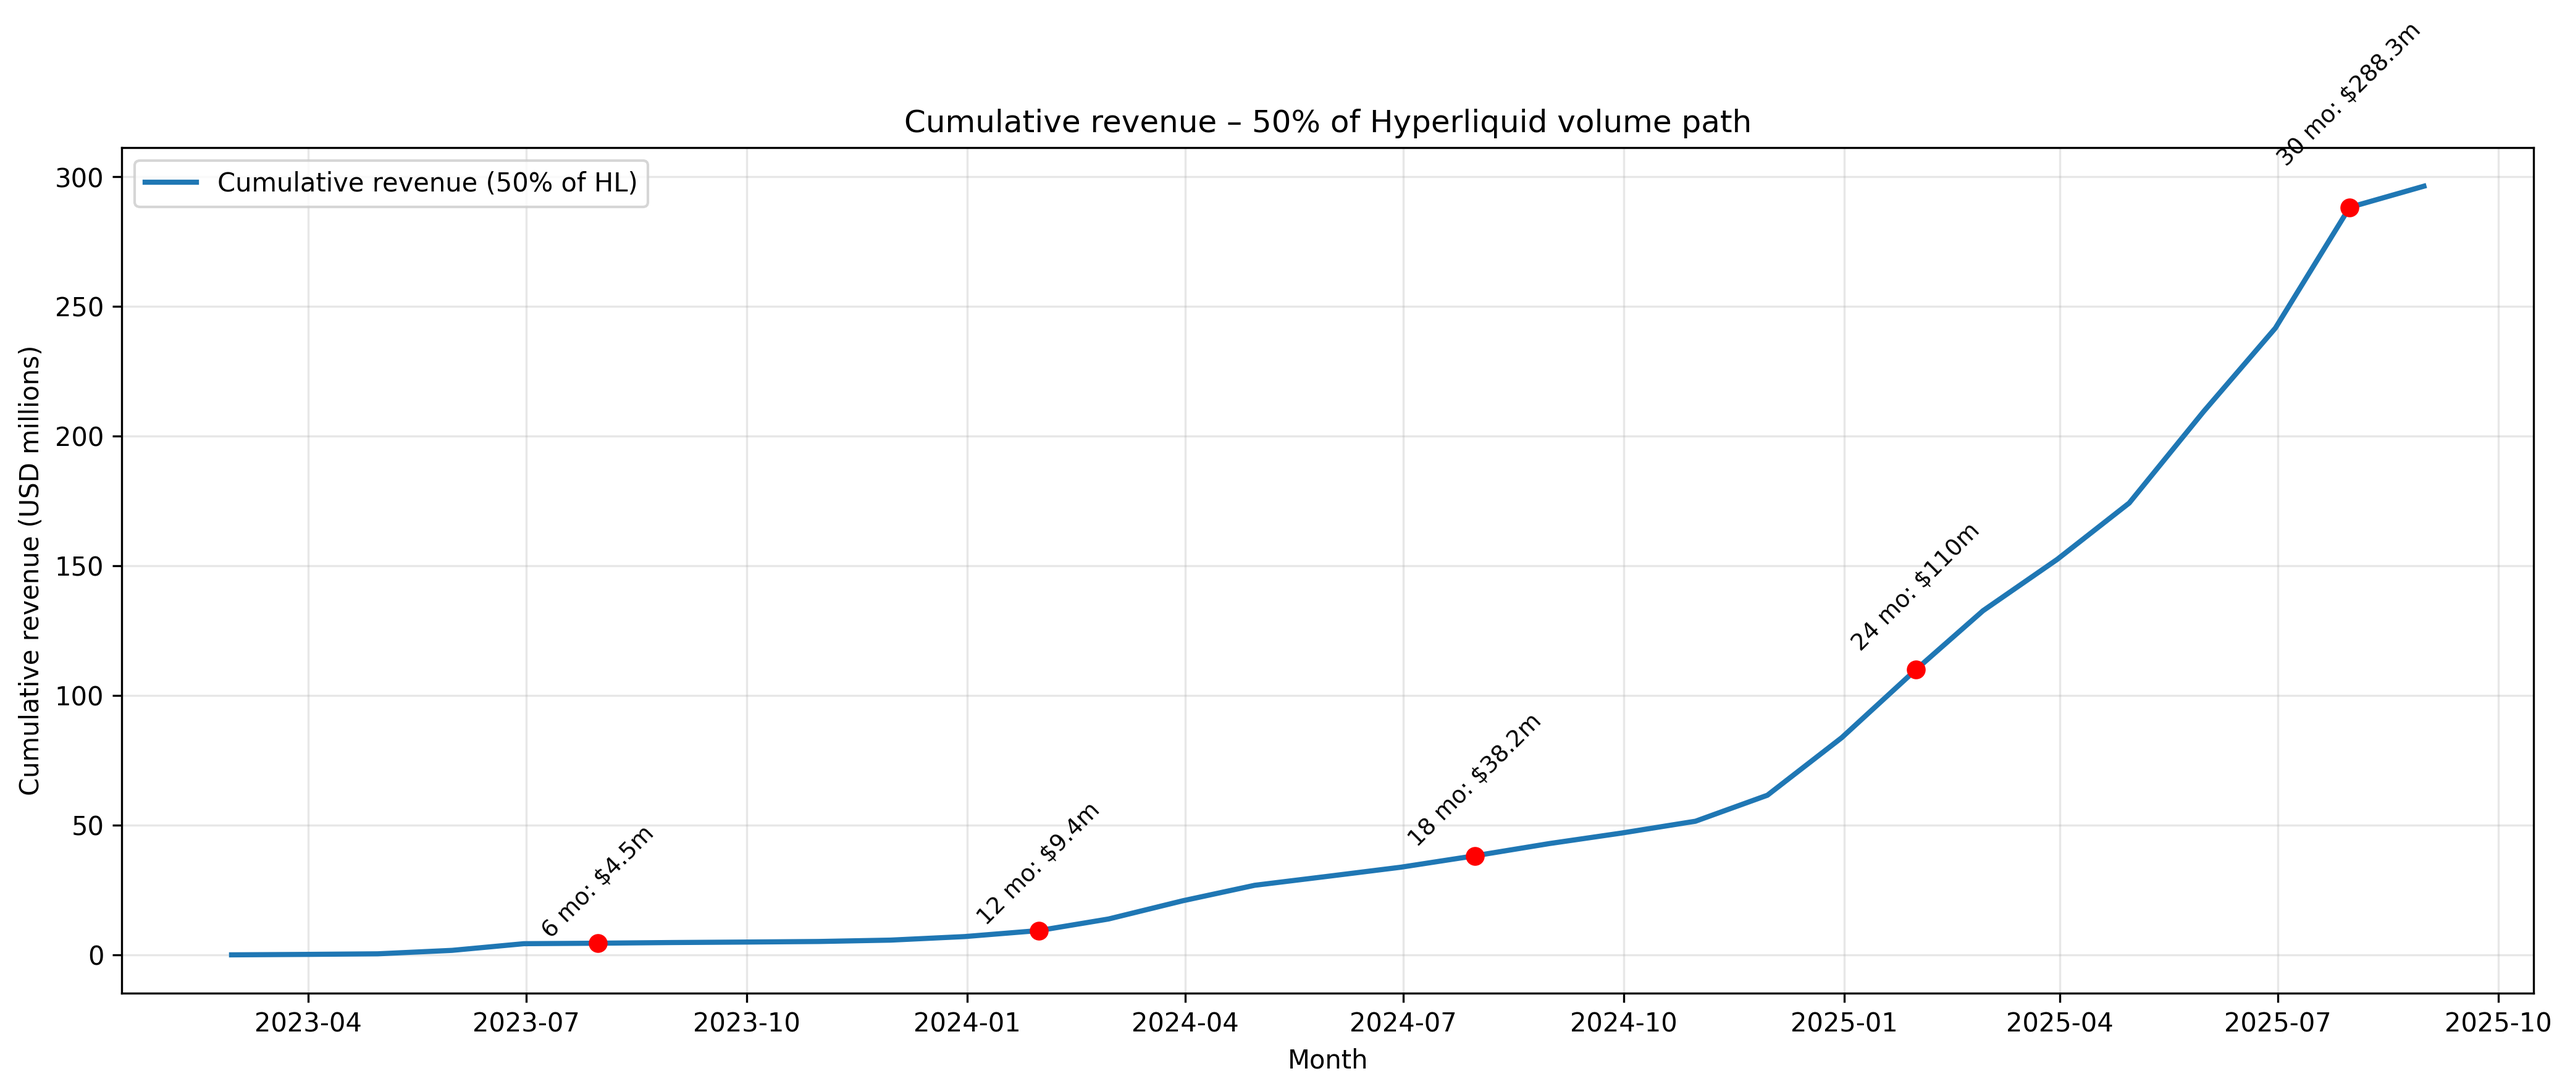
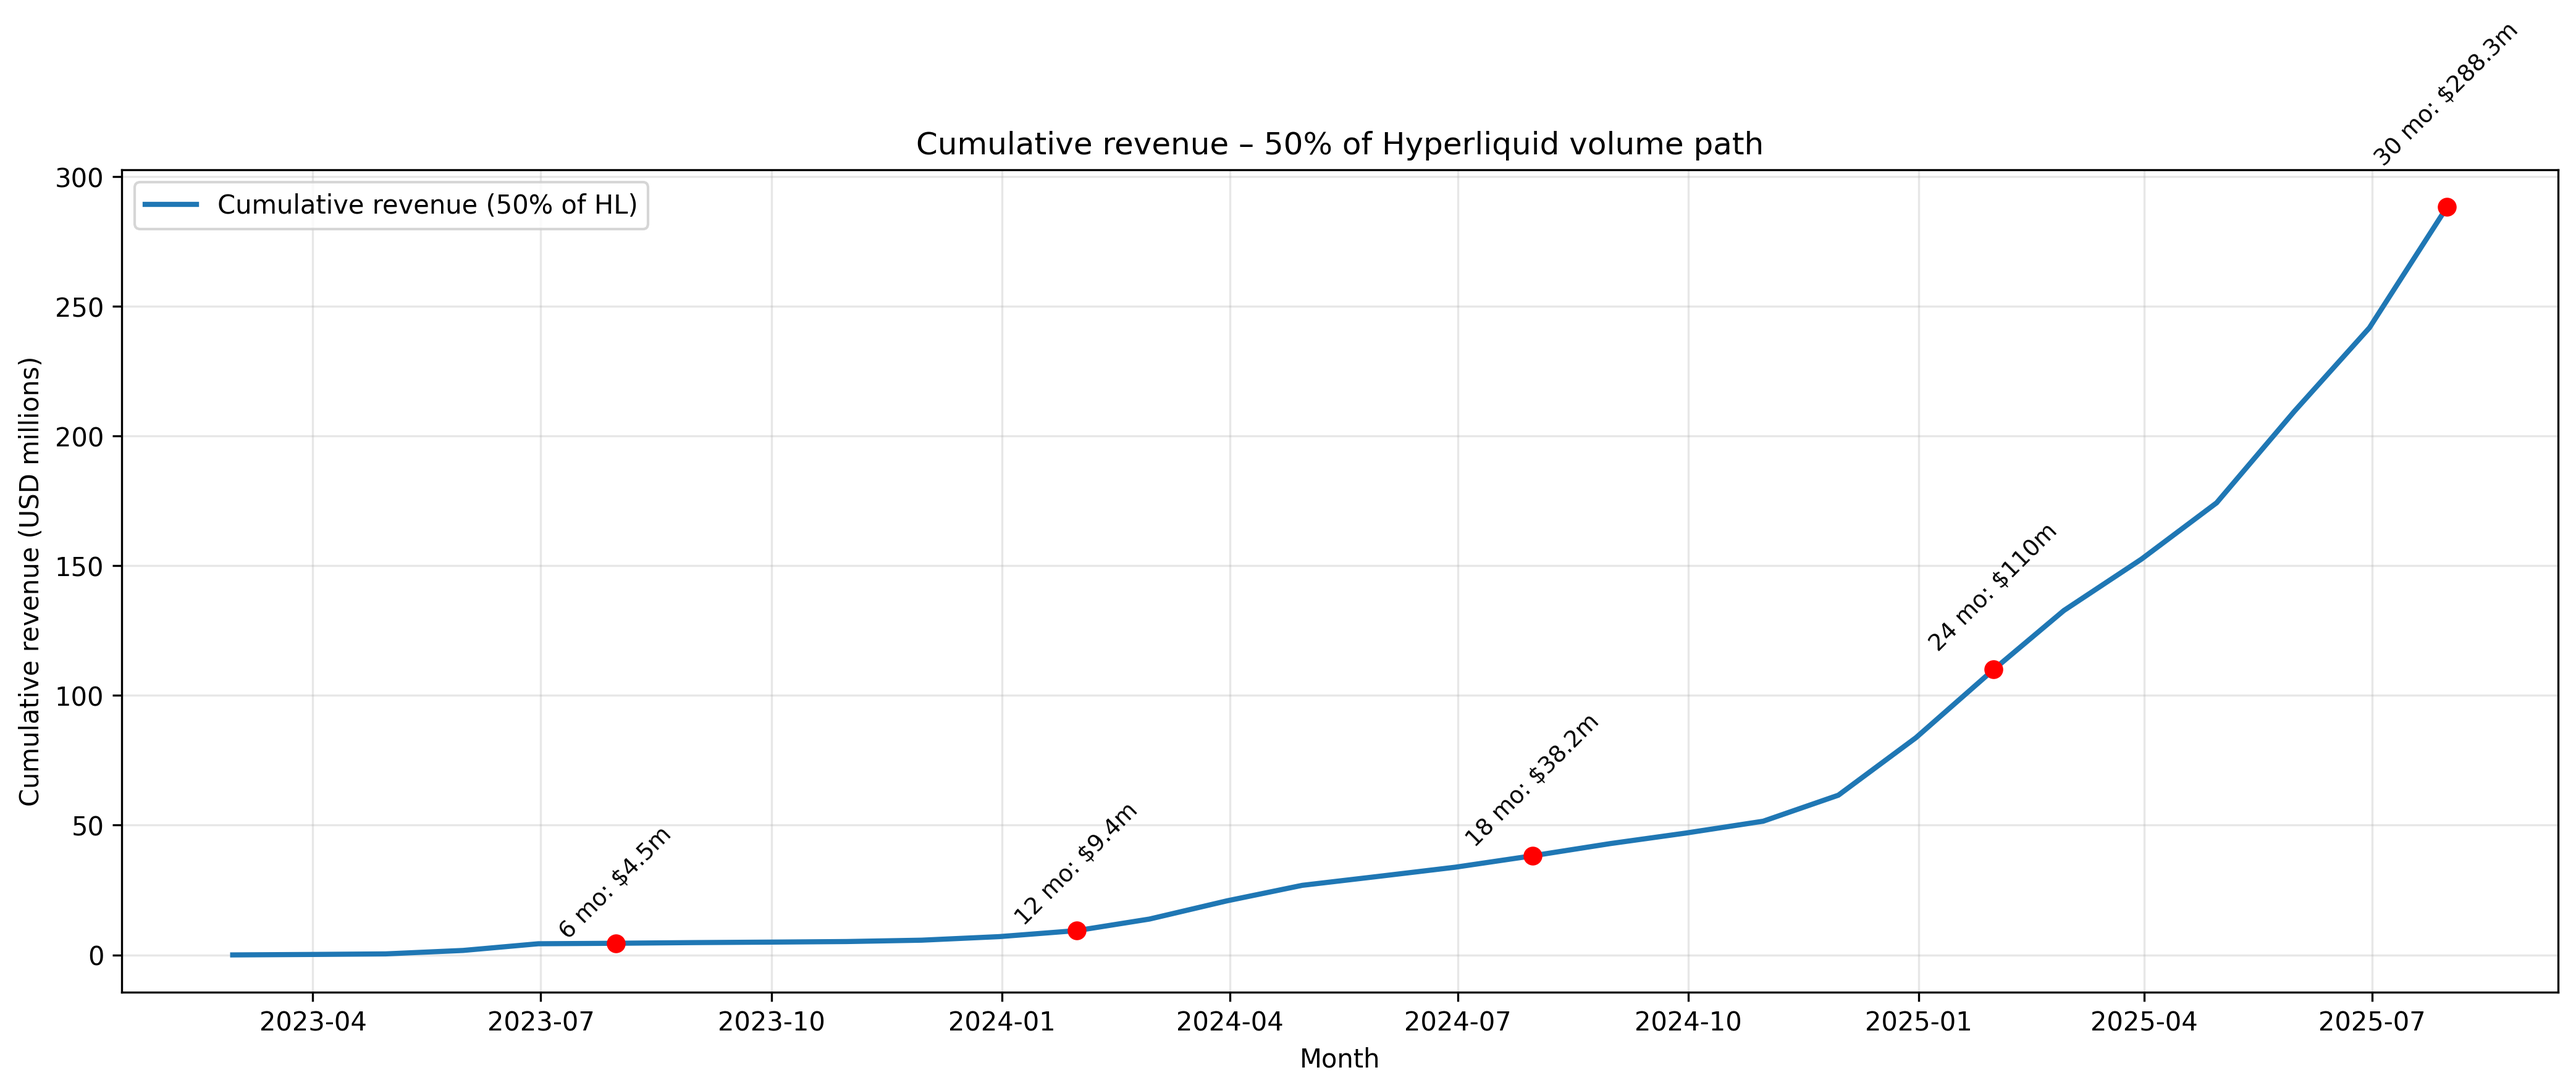
Remove August 2025 data from analysis - Updated revenue projections and regenerated all charts

diff --git a/revenue_time_hl_match.py b/revenue_time_hl_match.py
@@ -21,6 +21,10 @@ fee = (
 vol["volume_usd"] = pd.to_numeric(vol["volume_usd"], errors="coerce")
 fee["fees_usd"]   = pd.to_numeric(fee["fees_usd"], errors="coerce")
 
+# Filter out August 2025 data
+vol = vol[~((vol["date"].dt.year == 2025) & (vol["date"].dt.month == 8))]
+fee = fee[~((fee["date"].dt.year == 2025) & (fee["date"].dt.month == 8))]
+
 # Aggregate to daily (sum), then reindex to daily frequency
 vol = (
     vol.groupby(vol["date"].dt.normalize(), as_index=True, sort=True)["volume_usd"]
